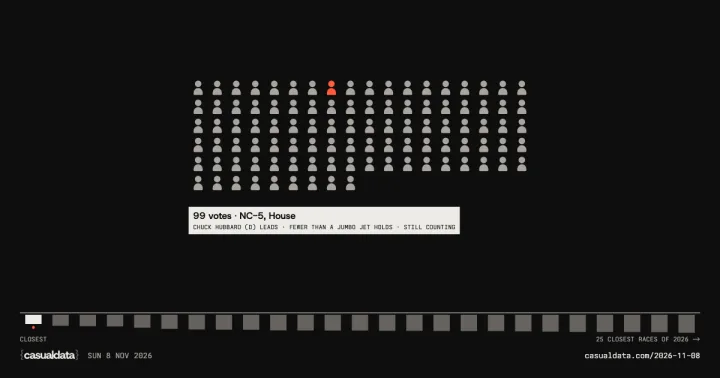
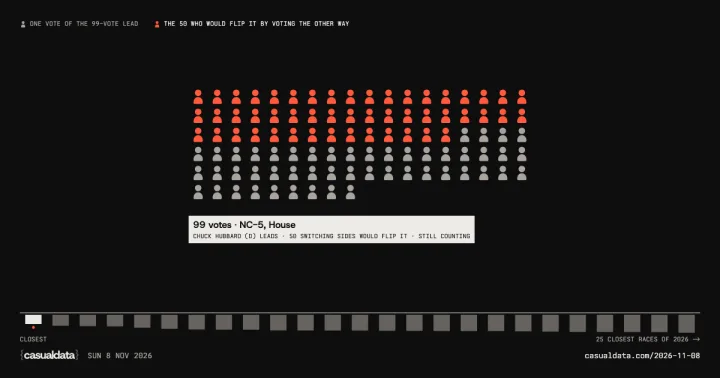
8 Nov: say what the figures and the red ones are
Each figure is one vote of the leader's lead, and the red ones are now
the votes that would flip the result by switching sides (just over half
the lead), instead of one red figure at a random spot labelled "you".
The chart carries its own key, the reading says how many switching sides
would flip it, and the headline reads "99 votes may decide a seat in
Congress" instead of "These 99 people". The page title and link
preview now match the headline. The day also keeps ?theme in its link,
names its race in the share panel, and goes back to the closest race on
Escape or Home. Card and thumbnails re-rendered.

Changed region(s): [[0.2444, 0.2037, 0.7333, 0.6693], [0.2139, 0.0582, 0.4889, 0.0873], [0.0306, 0.0582, 0.1833, 0.0873]]

diff --git a/2026-11-08/viz.js b/2026-11-08/viz.js
@@ -1,5 +1,6 @@
-// 2026-11-08 — the closest races of 2026, one dot per vote of margin.
-// The field shows the chosen race's margin as a crowd; one dot in it is red: you.
+// 2026-11-08 — the closest races of 2026, one figure per vote of the leader's margin.
+// The field shows the chosen race's margin as a crowd. The red ones are how many voters would have had
+// to vote the other way to flip the result: just over half the margin.
 // The strip below lists every race in the set, smallest margin first.
 (function () {
 	const C = CD.colors;
@@ -13,12 +14,12 @@
 	let cur = Math.max(0, races.findIndex(r => r.id === q.get("r")));
 	let hover = -1;
 	let fill = matchMedia("(prefers-reduced-motion: reduce)").matches ? 1 : 0;
-	// where the red "you" dot sits in each crowd: fixed per race so screenshots agree
-	const youAt = r => Math.floor(((r.margin * 7919) % 1000) / 1000 * r.margin);
+	// switching this many votes from the leader to the runner-up would flip the result
+	const flipOf = n => Math.floor(n / 2) + 1;
 
 	function readout() {
 		const r = races[hover >= 0 ? hover : cur];
-		return [`${fmt(r.margin)} votes · ${r.label}`, `${r.winner} ${r.called ? "won" : "leads"} · ${like(r.margin)}${r.final ? "" : " · still counting"}`];
+		return [`${fmt(r.margin)} votes · ${r.label}`, `${r.winner} ${r.called ? "won" : "leads"} · ${fmt(flipOf(r.margin))} switching sides would flip it${r.final ? "" : " · still counting"}`];
 	}
 
 	// a person: a round head on a rounded body (the same figure as 6 Nov)
@@ -32,35 +33,42 @@
 	// ui: true on screen, where narrow screens get ‹ › buttons beside the strip; false for the image
 	function draw(ctx, x, y, w, h, s, ui) {
 		const stripH = 54 * s, gap = 18 * s, chipRoom = 92 * s;
+		const r = races[cur], n = r.margin, MAX = 34 * s, flip = flipOf(n);
+		// the key, written into the drawing so the image explains itself: what a figure is, what red is
+		const keyW = w, twoLines = keyW < 560 * s, keyH = (twoLines ? 40 : 22) * s;
+		ctx.font = `400 ${11.5 * s}px ${C.mono}`; ctx.textBaseline = "middle"; ctx.textAlign = "left";
+		const key = (cx, cy, col, text) => {
+			ctx.fillStyle = col; person(ctx, cx + 6 * s, cy + 1 * s, 13 * s);
+			ctx.fillStyle = col === C.red ? C.ink : C.ink2; ctx.fillText(text, cx + 18 * s, cy + 0.5 * s);
+			return cx + 18 * s + ctx.measureText(text).width;
+		};
+		const k1 = key(x, y + 7 * s, C.ink2, `ONE VOTE OF THE ${fmt(n)}-VOTE LEAD`);
+		// the red line in the longest wording that fits
+		const room = twoLines ? keyW - 18 * s : x + keyW - k1 - 46 * s;
+		const red = [`THE ${fmt(flip)} WHO WOULD FLIP IT BY VOTING THE OTHER WAY`, `THE ${fmt(flip)} WHO WOULD FLIP IT BY SWITCHING SIDES`, `${fmt(flip)} SWITCHING SIDES WOULD FLIP IT`]
+			.find(t => ctx.measureText(t).width <= room) || `${fmt(flip)} WOULD FLIP IT`;
+		if (twoLines) key(x, y + 25 * s, C.red, red);
+		else key(k1 + 28 * s, y + 7 * s, C.red, red);
 		// the field leaves room under the crowd for the reading, so the chip never covers a vote
-		const fx = x, fy = y, fw = w, fh = h - stripH - gap - chipRoom;
-		const r = races[cur], n = r.margin, MAX = 34 * s;
+		const fx = x, fy = y + keyH + 10 * s, fw = w, fh = h - stripH - gap - chipRoom - keyH - 10 * s;
 		// a grid that fills the field: choose a cell so n marks fit; a small margin stays a small crowd
 		const cell = Math.min(MAX, Math.sqrt(fw * fh / n) * 0.98);
 		// keep the crowd compact: roughly the field's shape, never wider than it
 		const cols = Math.max(1, Math.min(Math.floor(fw / cell), Math.ceil(Math.sqrt(n * fw / fh)))), rows = Math.ceil(n / cols);
 		const c2 = Math.min(MAX, fw / cols, fh / rows), ox = fx + (fw - cols * c2) / 2, oy = fy + (fh - rows * c2) / 2;
 		const figures = c2 >= 10 * s, dr = Math.max(0.5, c2 * 0.34);   // people while they are big enough to read as people, dots after
-		// the red one is never in the bottom row, which sits nearest the reading
-		const shown = Math.round(n * fill), you = rows > 1 ? youAt(r) % ((rows - 1) * cols) : youAt(r);
+		const shown = Math.round(n * fill);
 		const mark = (cx, cy) => {
 			if (figures) person(ctx, cx, cy, c2 * 0.86);
 			else if (dr < 1.6) ctx.fillRect(cx - dr, cy - dr, dr * 2, dr * 2);
 			else { ctx.beginPath(); ctx.arc(cx, cy, dr, 0, Math.PI * 2); ctx.fill(); }
 		};
-		ctx.fillStyle = C.ink2;
+		// the first `flip` votes, in reading order, are red: just over half the crowd
 		for (let i = 0; i < shown; i++) {
-			if (i === you) continue;
+			ctx.fillStyle = i < flip ? C.red : C.ink2;
 			mark(ox + (i % cols + 0.5) * c2, oy + (Math.floor(i / cols) + 0.5) * c2);
 		}
 		if (fill === 1) {
-			const cx = ox + (you % cols + 0.5) * c2, cy = oy + (Math.floor(you / cols) + 0.5) * c2;
-			ctx.fillStyle = C.red;
-			if (figures) mark(cx, cy);
-			else {
-				ctx.beginPath(); ctx.arc(cx, cy, Math.max(3 * s, dr * 1.3), 0, Math.PI * 2); ctx.fill();
-				ctx.lineWidth = 2 * s; ctx.strokeStyle = C.paper; ctx.stroke();
-			}
 			const [value, context] = readout();
 			if (hover < 0) CD.label(ctx, ox - 12 * s, oy + rows * c2 + 50 * s, value, context, s, { x: fx, y: fy, w: fw, h: fh + chipRoom });
 		}
@@ -115,7 +123,7 @@
 		CD.announce(readout().join(", "));
 		// the headline follows the chosen race; uncalled races "may" decide
 		const r = races[cur], what = r.id.endsWith("senate") ? "a Senate seat" : r.id.endsWith("governor") ? "who governs " + r.label.replace(" governor", "") : "a seat in Congress";
-		const t = `These ${fmt(r.margin)} people ${r.called ? "decided" : "may decide"} ${what}`;
+		const t = `${fmt(r.margin)} votes ${r.called ? "decided" : "may decide"} ${what}`;
 		if (titleEl.textContent !== t) titleEl.textContent = t;
 	}
 	const schedule = () => { if (!raf) raf = requestAnimationFrame(paint); };
@@ -133,7 +141,7 @@
 	function choose(i) {
 		if (i === cur) return;
 		cur = i; grow();
-		history.replaceState(null, "", `?r=${races[cur].id}`);
+		CD.state.set({ r: races[cur].id });
 	}
 	const pos = e => { const r = cv.getBoundingClientRect(); return [e.clientX - r.left, e.clientY - r.top]; };
 	function at(e) {
@@ -167,8 +175,11 @@
 	cv.addEventListener("pointercancel", stop);
 	cv.addEventListener("pointerleave", () => { hover = -1; schedule(); });
 	cv.addEventListener("keydown", e => {
-		if (e.key === "ArrowRight" || e.key === "ArrowLeft") { e.preventDefault(); choose((cur + (e.key === "ArrowRight" ? 1 : -1) + races.length) % races.length); }
+		// arrows step through the races, as on every day; Escape and Home go back to the closest
+		const dir = { ArrowRight: 1, ArrowDown: 1, ArrowLeft: -1, ArrowUp: -1 }[e.key];
+		if (dir) { e.preventDefault(); choose((cur + dir + races.length) % races.length); }
+		if (e.key === "Escape" || e.key === "Home") { e.preventDefault(); choose(0); }
 	});
 	// the image is always the finished crowd, with no hover reading and no buttons
-	CD.exporter = { draw: (c, x, y, w, h, u) => { const f = fill, hv = hover; fill = 1; hover = -1; draw(c, x, y, w, h, u * 1.6, false); fill = f; hover = hv; } };
+	CD.exporter = { readout: () => { const hv = hover; hover = -1; const r = readout(); hover = hv; return r; }, draw: (c, x, y, w, h, u) => { const f = fill, hv = hover; fill = 1; hover = -1; draw(c, x, y, w, h, u * 1.6, false); fill = f; hover = hv; } };
 })();

diff --git a/2026-11-08/index.html b/2026-11-08/index.html
@@ -3,17 +3,17 @@
 <head>
   <meta charset="utf-8">
   <meta name="viewport" content="width=device-width, initial-scale=1, viewport-fit=cover">
-  <title>These people decided it · casualdata</title>
-  <meta name="description" content="The closest races of the 2026 midterms, drawn as crowds: one person for every vote in the margin.">
+  <title>99 votes may decide a seat in Congress · casualdata</title>
+  <meta name="description" content="The closest races of the 2026 midterms, drawn as crowds: one figure for every vote of the lead, and in red, how many would flip the result by voting the other way.">
   <meta name="theme-color" content="#FFFFFF">
   <meta property="og:type" content="article">
-  <meta property="og:title" content="These people decided it">
-  <meta property="og:description" content="The closest races of 2026, one person per vote of margin. casualdata, 8 November 2026">
+  <meta property="og:title" content="99 votes may decide a seat in Congress">
+  <meta property="og:description" content="The closest races of 2026, one figure per vote of the lead. casualdata, 8 November 2026">
   <meta property="og:url" content="https://casualdata.com/2026-11-08/">
   <meta property="og:image" content="https://casualdata.com/2026-11-08/card.png">
   <meta property="og:image:width" content="1200">
   <meta property="og:image:height" content="630">
-  <meta property="og:image:alt" content="These 99 people may decide a seat in Congress">
+  <meta property="og:image:alt" content="99 figures for the 99-vote lead in NC-5, 50 of them red: the votes that would flip the seat by switching sides">
   <meta name="twitter:card" content="summary_large_image">
   <link rel="icon" href="/kit/favicon.svg" type="image/svg+xml">
   <link rel="preload" href="/fonts/host-grotesk-latin.woff2" as="font" type="font/woff2" crossorigin>
@@ -33,13 +33,13 @@
 </header>
 
 <section class="cd-head">
-  <h1 class="cd-title">These 99 people may decide a seat in Congress</h1>
-  <p class="cd-dek">Each person here is one vote of the margin in one of the closest races of the midterms. The red one is you. Pick another race in the strip below.</p>
+  <h1 class="cd-title">99 votes may decide a seat in Congress</h1>
+  <p class="cd-dek">Each figure is one vote of the leader’s lead in one of the closest races of the midterms. The red ones are how many voters would have had to vote the other way to flip it. Pick another race in the strip below.</p>
   <p class="visually-hidden" id="cd-live" aria-live="polite"></p>
 </section>
 
 <main class="cd-stage" id="stage">
-  <canvas id="cv" tabindex="0" role="application" aria-roledescription="interactive chart" aria-label="The vote margin of the chosen race drawn as one person per vote, with a strip of the 25 closest races of 2026 below. Use the left and right arrow keys to change race."></canvas>
+  <canvas id="cv" tabindex="0" role="application" aria-roledescription="interactive chart" aria-label="The vote margin of the chosen race drawn as one figure per vote of the lead, with the votes that would flip it by switching sides in red, with a strip of the 25 closest races of 2026 below. Use the left and right arrow keys to change race."></canvas>
 </main>
 
 <footer class="cd-foot cd-meta">

diff --git a/kit/days.js b/kit/days.js
@@ -28,7 +28,7 @@ window.CD_DAYS = [
 	{
 		date: "2026-11-08",
 		path: "/2026-11-08/",
-		title: "These 99 people may decide a seat in Congress",
-		dek: "The closest races of 2026, one person per vote."
+		title: "99 votes may decide a seat in Congress",
+		dek: "The closest races of 2026, one figure per vote of the lead."
 	}
 ];
